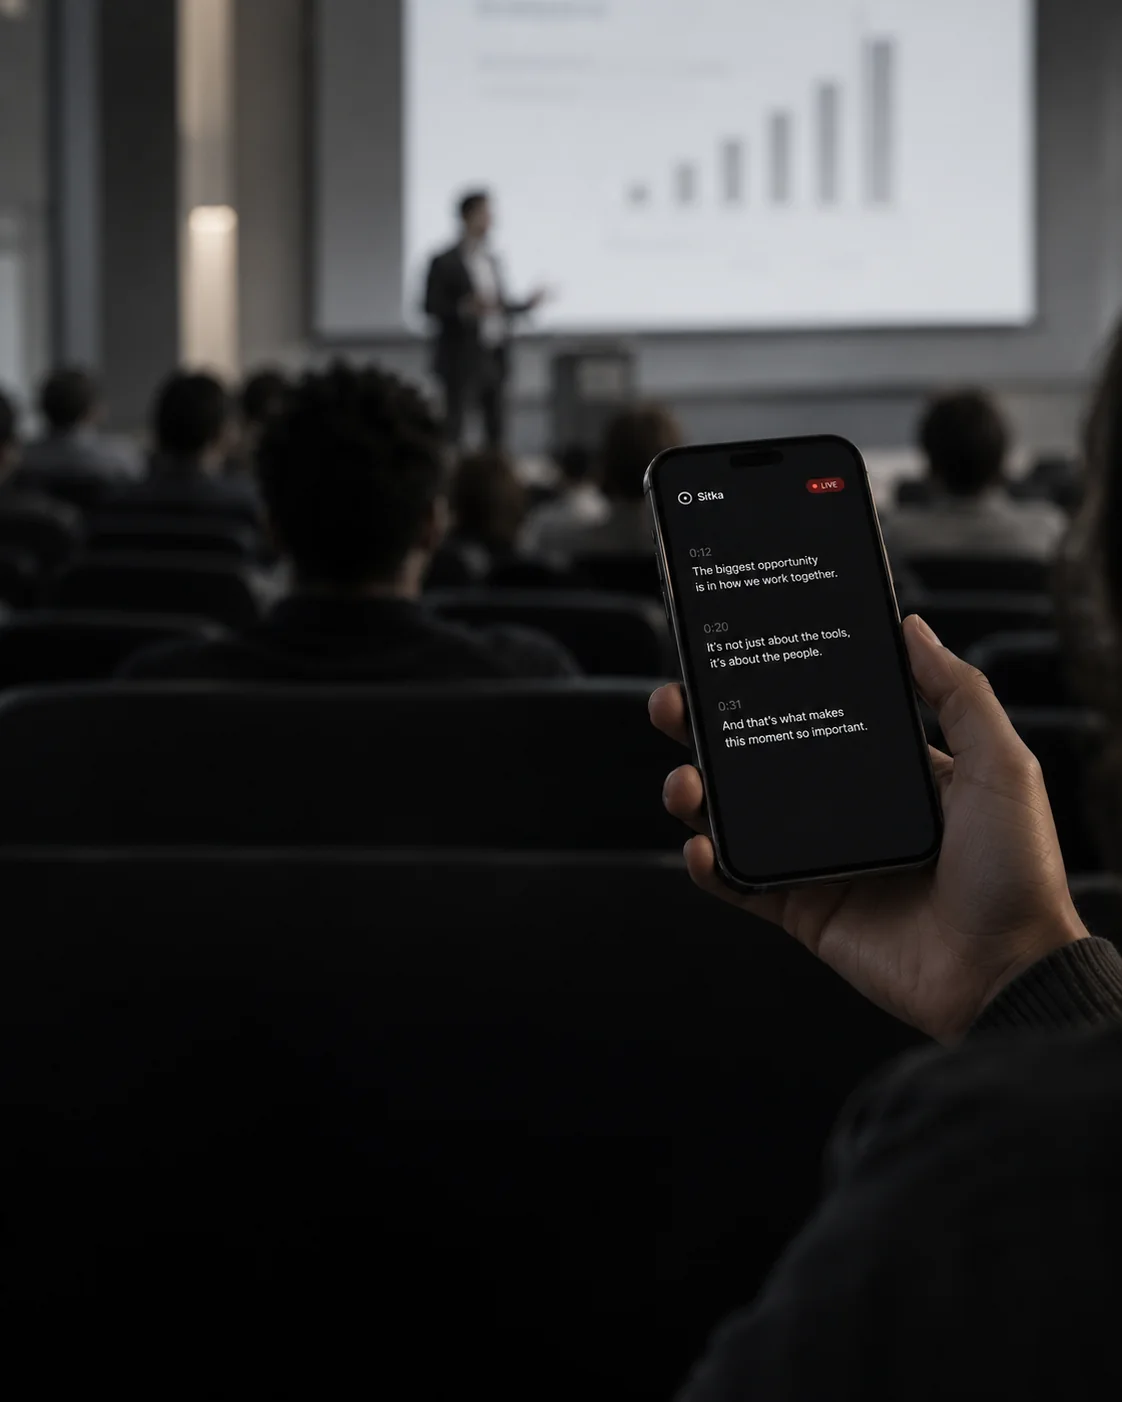
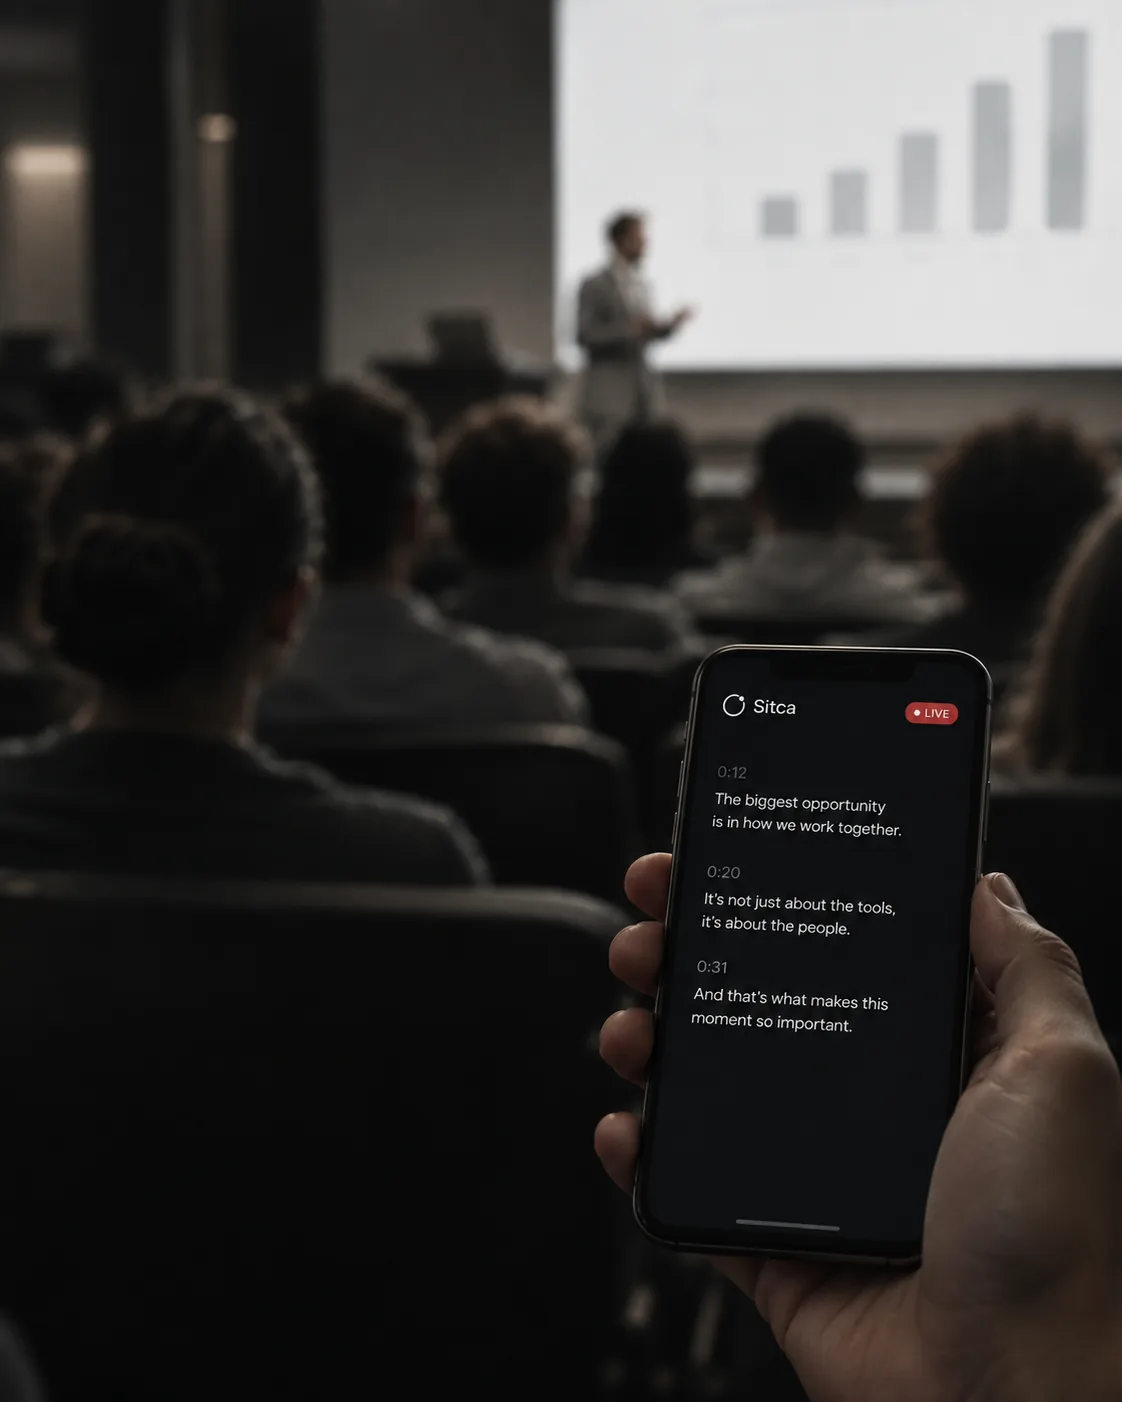
The new photographs in place; the welcome picture fetched ahead and faded in; shorter waits, a fuller account of a refusal, and the browser's own player as a last resort

diff --git a/web/index.html b/web/index.html
@@ -4,9 +4,9 @@
 <meta charset="utf-8">
 <meta name="viewport" content="width=device-width, initial-scale=1">
 <title>Sitca — The AI that attends with you</title>
-<link rel="preload" as="image" href="/sitka1.webp">
-<link rel="preload" as="image" href="/sitka2.webp">
-<link rel="preload" as="image" href="/sitka3.webp">
+<link rel="preload" as="image" href="/sitca1.png">
+<link rel="preload" as="image" href="/sitca2.png">
+<link rel="preload" as="image" href="/sitca3.png">
 <link rel="icon" href="/favicon.svg" type="image/svg+xml">
 <link rel="apple-touch-icon" href="/apple-touch-icon.png">
 <link rel="manifest" href="/site.webmanifest">
@@ -232,12 +232,12 @@ footer{border-top:1px solid var(--border);background:var(--soft);padding:64px 0 
 
 <div class="reel" aria-label="Sitca in pictures">
   <div class="reel-track">
[12 lines of base64/hex data omitted]
   </div>
 </div>
 

diff --git a/src/renderer/src/components/SessionView.tsx b/src/renderer/src/components/SessionView.tsx
@@ -60,6 +60,8 @@ export default function SessionView({
   const [data, setData] = useState<SessionData | null>(null)
   const [videoSrc, setVideoSrc] = useState<string | null>(null)
   const [videoError, setVideoError] = useState(false)
+  /** the recording handed to the browser's own player, when ours could not play it */
+  const [nativeSrc, setNativeSrc] = useState<string | null>(null)
   /** how the recording was being played when it failed, for the message and the report */
   const diagRef = useRef('')
   const failWith = (why: string): void => {
@@ -379,8 +381,8 @@ export default function SessionView({
     const t = window.setTimeout(() => {
       const v = videoRef.current
       if (gen !== loadGenRef.current || !v || v.readyState >= 1) return
-      void advance(gen, `${diagRef.current} gave nothing in 20 s (network state ${v.networkState})`)
-    }, 20000)
+      void advance(gen, `${diagRef.current} gave nothing in 10 s (network state ${v.networkState})`)
+    }, 10000)
     return () => window.clearTimeout(t)
   }, [videoSrc, advance])
 
@@ -424,8 +426,8 @@ export default function SessionView({
       if (cancelled || !videoRef.current || videoRef.current.readyState >= 1) return
       cancelled = true
       streamPartsRef.current = []
-      void advance(gen, `${diagRef.current} gave nothing in 20 s`)
-    }, 20000)
+      void advance(gen, `${diagRef.current} gave nothing in 10 s`)
+    }, 10000)
     void run.then((ok) => {
       if (cancelled) return
       if (!ok) {
@@ -850,26 +852,35 @@ export default function SessionView({
                         if (v.readyState === 0 && videoSrc !== 'progressive') v.load()
                         const gen = loadGenRef.current
                         const from = v.currentTime
+                        const state = (): string => {
+                          const played = v.played.length ? `${v.played.start(0).toFixed(1)}–${v.played.end(v.played.length - 1).toFixed(1)}` : 'none'
+                          return `length ${v.duration}, at ${v.currentTime.toFixed(2)}, ready ${v.readyState}, network ${v.networkState}, ${v.paused ? 'paused' : 'playing'}${v.ended ? ', ended' : ''}${v.muted ? ', muted' : ''}, rate ${v.playbackRate}, played ${played}${v.error ? `, error ${v.error.code}` : ''}`
+                        }
                         const stalled = (why: string): void => {
                           if (gen !== loadGenRef.current) return
-                          const d = `${diagRef.current}: ${why} (length ${v.duration}, ready ${v.readyState}, network ${v.networkState}${v.error ? `, error ${v.error.code}` : ''})`
+                          const d = `${diagRef.current}: ${why} (${state()})`
                           streamPartsRef.current = []
                           pendingSeekRef.current = Math.max(0, from) // the next way starts playing on its own
                           void advance(gen, d)
                         }
                         v.play()
                           .then(() => {
-                            // playing, but not moving: five seconds without the clock advancing
+                            // playing, but not moving: four seconds without the clock advancing
                             window.setTimeout(() => {
                               if (gen !== loadGenRef.current || userPausedRef.current) return
                               const expected = (meta.durationMs || 0) / 1000
-                              if (v.currentTime - from < 0.25) stalled('play did not move')
+                              if (v.paused && !v.ended) stalled('play stopped by itself')
+                              else if (v.currentTime - from < 0.25) stalled('play did not move')
                               else if (v.ended && v.currentTime < 1 && expected > 5) stalled('it ended at once')
-                            }, 5000)
+                            }, 4000)
                           })
                           .catch((err) => {
                             const name = err instanceof Error ? err.name : String(err)
-                            if (name === 'AbortError') return // a pause before it started, not a fault
+                            // a load that replaced this one aborted its play: the new one plays on its own
+                            if (name === 'AbortError') {
+                              pendingSeekRef.current = Math.max(0, from)
+                              return
+                            }
                             stalled(`play was refused (${name})`)
                           })
                       }}
@@ -1014,6 +1025,23 @@ export default function SessionView({
                   >
                     Download the file
                   </button>
+                  {/* the browser's own player, as a last resort and as a test: if this plays, the file is sound */}
+                  {nativeSrc ? (
+                    <audio className="video-failed-native" controls src={nativeSrc} />
+                  ) : (
+                    <button
+                      type="button"
+                      className="btn btn-ghost btn-sm"
+                      onClick={() =>
+                        void window.sitka.readVideo(sessionId).then((bytes) => {
+                          if (!bytes || bytes.byteLength === 0) return
+                          setNativeSrc(URL.createObjectURL(new Blob([bytes.slice().buffer], { type: mediaType(bytes.subarray(0, 12)) })))
+                        })
+                      }
+                    >
+                      Try the browser’s own player
+                    </button>
+                  )}
                 </div>
               ) : !videoWanted ? (
                 <button

diff --git a/src/renderer/src/styles.css b/src/renderer/src/styles.css
@@ -12443,6 +12443,13 @@ video {
   margin-top: 10px;
 }
 
+/* the browser's own player, offered when ours could not play a recording */
+.video-failed-native {
+  display: block;
+  width: min(360px, 100%);
+  margin: 10px auto 0;
+}
+
 /* ============ the welcome, once ============ */
 .welcome-overlay {
   z-index: 420;
@@ -12476,17 +12483,39 @@ video {
   justify-content: flex-end;
   color: #f4f4f6;
   overflow: hidden;
-  /* the lecture theatre at dusk, its left kept dark for the words; a veil
-     from the left and a fade at the foot so the name reads on any crop.
-     Where the picture is not served (the desktop app) the colour stands. */
+  /* the lecture theatre at dusk sits behind as a picture that fades in when
+     it has arrived; a veil from the left and a fade at the foot keep the
+     name readable on any crop. Until it arrives, and where it is not served
+     (the desktop app), the dark colour stands. */
   background-color: #0f0f11;
-  background-image:
+}
+.welcome-hero-img {
+  position: absolute;
+  inset: 0;
+  width: 100%;
+  height: 100%;
+  object-fit: cover;
+  object-position: 62% 50%;
+  opacity: 0;
+  transition: opacity 0.5s ease;
+  pointer-events: none;
+}
+.welcome-hero-img.in {
+  opacity: 1;
+}
+.welcome-hero::before {
+  content: '';
+  position: absolute;
+  inset: 0;
+  z-index: 1;
+  background:
     linear-gradient(to right, rgba(10, 10, 12, 0.88) 0%, rgba(10, 10, 12, 0.55) 45%, rgba(10, 10, 12, 0.12) 100%),
-    linear-gradient(to top, rgba(10, 10, 12, 0.7) 0%, rgba(10, 10, 12, 0) 45%),
-    url('/welcome-hero.png');
-  background-size: cover, cover, cover;
-  background-position: center, center, 62% 50%;
-  background-repeat: no-repeat;
+    linear-gradient(to top, rgba(10, 10, 12, 0.7) 0%, rgba(10, 10, 12, 0) 45%);
+  pointer-events: none;
+}
+.welcome-hero > *:not(.welcome-hero-img) {
+  position: relative;
+  z-index: 2;
 }
 .welcome-hero .welcome-title,
 .welcome-hero .welcome-sub {
@@ -12589,7 +12618,9 @@ video {
   .welcome-hero {
     padding: 34px 22px 22px;
     min-height: 250px;
-    background-position: center, center, 74% 55%;
+  }
+  .welcome-hero-img {
+    object-position: 74% 55%;
   }
   .welcome-title {
     font-size: 28px;

diff --git a/web/event.html b/web/event.html
@@ -10,7 +10,7 @@
 <link rel="preconnect" href="https://fonts.googleapis.com">
 <link rel="preconnect" href="https://fonts.gstatic.com" crossorigin>
 <link href="https://fonts.googleapis.com/css2?family=Inter:wght@400;500;600;700;800&display=swap" rel="stylesheet">
-<link rel="preload" as="image" href="/event-join.webp" fetchpriority="high">
+<link rel="preload" as="image" href="/event-join.png" fetchpriority="high">
 </head>
 <body>
 <header><div class="hdr-in">
@@ -43,7 +43,7 @@
 <div id="join" class="joinwrap hidden">
   <aside class="joinvis" aria-hidden="true">
[1 lines of base64/hex data omitted]
-    <img class="jv-photo" src="/event-join.webp" alt="" decoding="async" fetchpriority="high" onload="this.classList.add('in')">
+    <img class="jv-photo" src="/event-join.png" alt="" decoding="async" fetchpriority="high" onload="this.classList.add('in')">
     <div class="jv-veil"></div>
     <div class="jv-in">
       <h2 class="jv-title">Everything the speaker says and shows — on your screen, in your language.</h2>

diff --git a/src/renderer/src/components/Welcome.tsx b/src/renderer/src/components/Welcome.tsx
@@ -25,6 +25,15 @@ export default function Welcome({ name, onClose }: Props): React.JSX.Element {
     <div className="dialog-overlay welcome-overlay">
       <div className="welcome" role="dialog" aria-label="Welcome to Sitca">
         <div className="welcome-hero">
+          {/* the lecture theatre at dusk; fetched ahead of time, faded in the moment it is ready */}
+          <img
+            className="welcome-hero-img"
+            src="/welcome-hero.png"
+            alt=""
+            decoding="async"
+            fetchPriority="high"
+            onLoad={(e) => e.currentTarget.classList.add('in')}
+          />
           <span className="welcome-glow" aria-hidden="true" />
           <span className="welcome-mark">
             <Mark size={38} />

diff --git a/src/renderer/src/App.tsx b/src/renderer/src/App.tsx
@@ -162,6 +162,16 @@ export default function App(): React.JSX.Element {
   // A new account is welcomed once, by name, when its library is still empty.
   const [welcome, setWelcome] = useState<string | null>(null)
   const welcomeChecked = useRef(false)
+  // Its picture is fetched the moment the app opens for an account still to be
+  // welcomed, so the card arrives with the picture already in hand.
+  useEffect(() => {
+    void window.sitka
+      .getProfile()
+      .then((p) => {
+        if (p.needsWelcome) new Image().src = '/welcome-hero.png'
+      })
+      .catch(() => undefined)
+  }, [])
   useEffect(() => {
     if (!sessionsLoaded || welcomeChecked.current) return
     welcomeChecked.current = true
